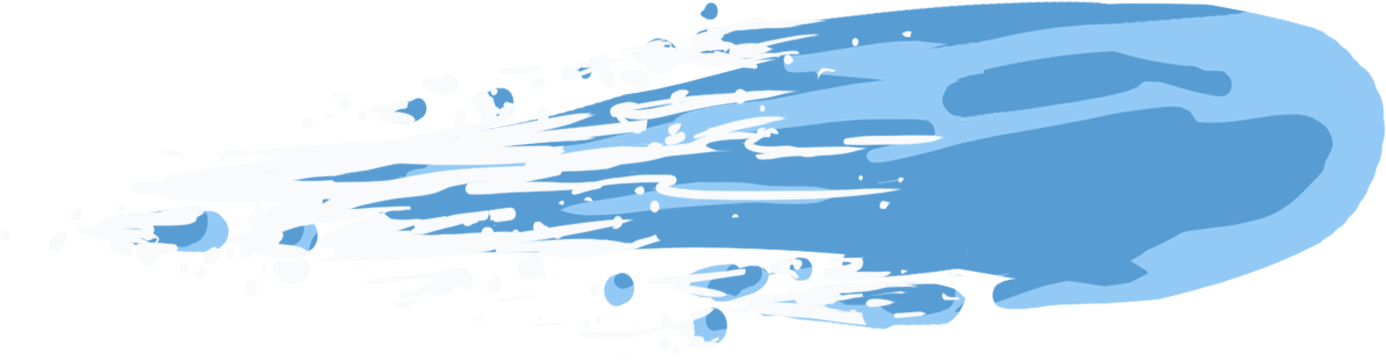
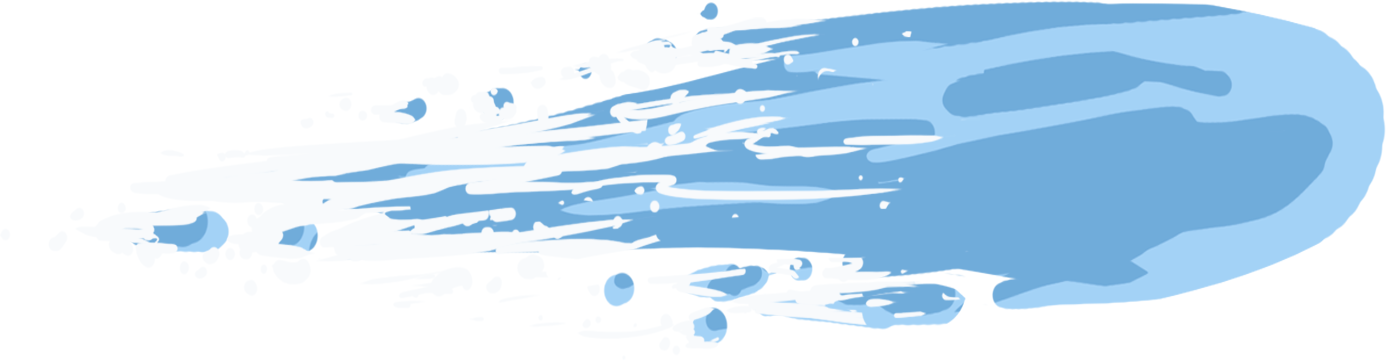
Added new water missile asset. More work on selectable play button.

diff --git a/wizards2D/Assets/Scripts/CharSelector.cs b/wizards2D/Assets/Scripts/CharSelector.cs
@@ -5,7 +5,7 @@ using XboxCtrlrInput;
 
 public class CharSelector : MonoBehaviour {
     public int playerNum = 1;
-    enum CurElement{L, R};
+    enum CurElement{L, R, P};
     CurElement selected = CurElement.L;
     public ElementSelector left;
     public ElementSelector right;
@@ -42,22 +42,27 @@ public class CharSelector : MonoBehaviour {
 //        Debug.Log(XCI.GetNumPluggedCtrlrs());
 //        if(counter == 0){
     	    float y = XCI.GetAxis(XboxAxis.LeftStickY, playerNum);
-            if(y < -0.4 && selected == CurElement.L) {
-                selected = CurElement.R;
-                left.selected = false;
-                right.selected = true;
-                right.background.color = new Color(right.background.color.r + modifier, right.background.color.g + modifier, right.background.color.b + modifier);
-                left.background.color = new Color(left.background.color.r - modifier, left.background.color.g - modifier, left.background.color.b - modifier);
-            //                right.background.color.r = right.background.color.r + 10;
-                counter = time;
+            if(y < -0.4) {
+				if(selected == CurElement.L) {
+				   selected = CurElement.R;
+	                left.selected = false;
+	                right.selected = true;
+	                right.background.color = new Color(right.background.color.r + modifier, right.background.color.g + modifier, right.background.color.b + modifier);
+	                left.background.color = new Color(left.background.color.r - modifier, left.background.color.g - modifier, left.background.color.b - modifier);
+	            //                right.background.color.r = right.background.color.r + 10;
+	                counter = time;
+	            }
+	            else if(selected == CurElement.R
             }
-            else if(y > 0.4 && selected == CurElement.R) {
-                selected = CurElement.L;
-                right.selected = false;
-                left.selected = true;
-                left.background.color = new Color(left.background.color.r + modifier, left.background.color.g + modifier, left.background.color.b + modifier);
-                right.background.color = new Color(right.background.color.r - modifier, right.background.color.g - modifier, right.background.color.b - modifier);
-                counter = time;
+			else if(y > 0.4) {
+				if(selected == CurElement.R) {
+					selected = CurElement.L;
+	                right.selected = false;
+	                left.selected = true;
+	                left.background.color = new Color(left.background.color.r + modifier, left.background.color.g + modifier, left.background.color.b + modifier);
+	                right.background.color = new Color(right.background.color.r - modifier, right.background.color.g - modifier, right.background.color.b - modifier);
+	                counter = time;
+                }
             }
 //        }
 //        else

diff --git a/wizards2D/Assets/Scripts/Play.cs b/wizards2D/Assets/Scripts/Play.cs
@@ -21,8 +21,10 @@ public class Play : MonoBehaviour {
 	
 	// Update is called once per frame
 	void Update () {
-//		if(select1 || select2 || select3 || select4)
-//			this.
+		if(select1 || select2 || select3 || select4)
+			playButton.OnSelect(null);
+		else
+			playButton.OnDeselect(null);
 	    if(XCI.GetButtonDown(XboxButton.Start))
             play();
 	}
